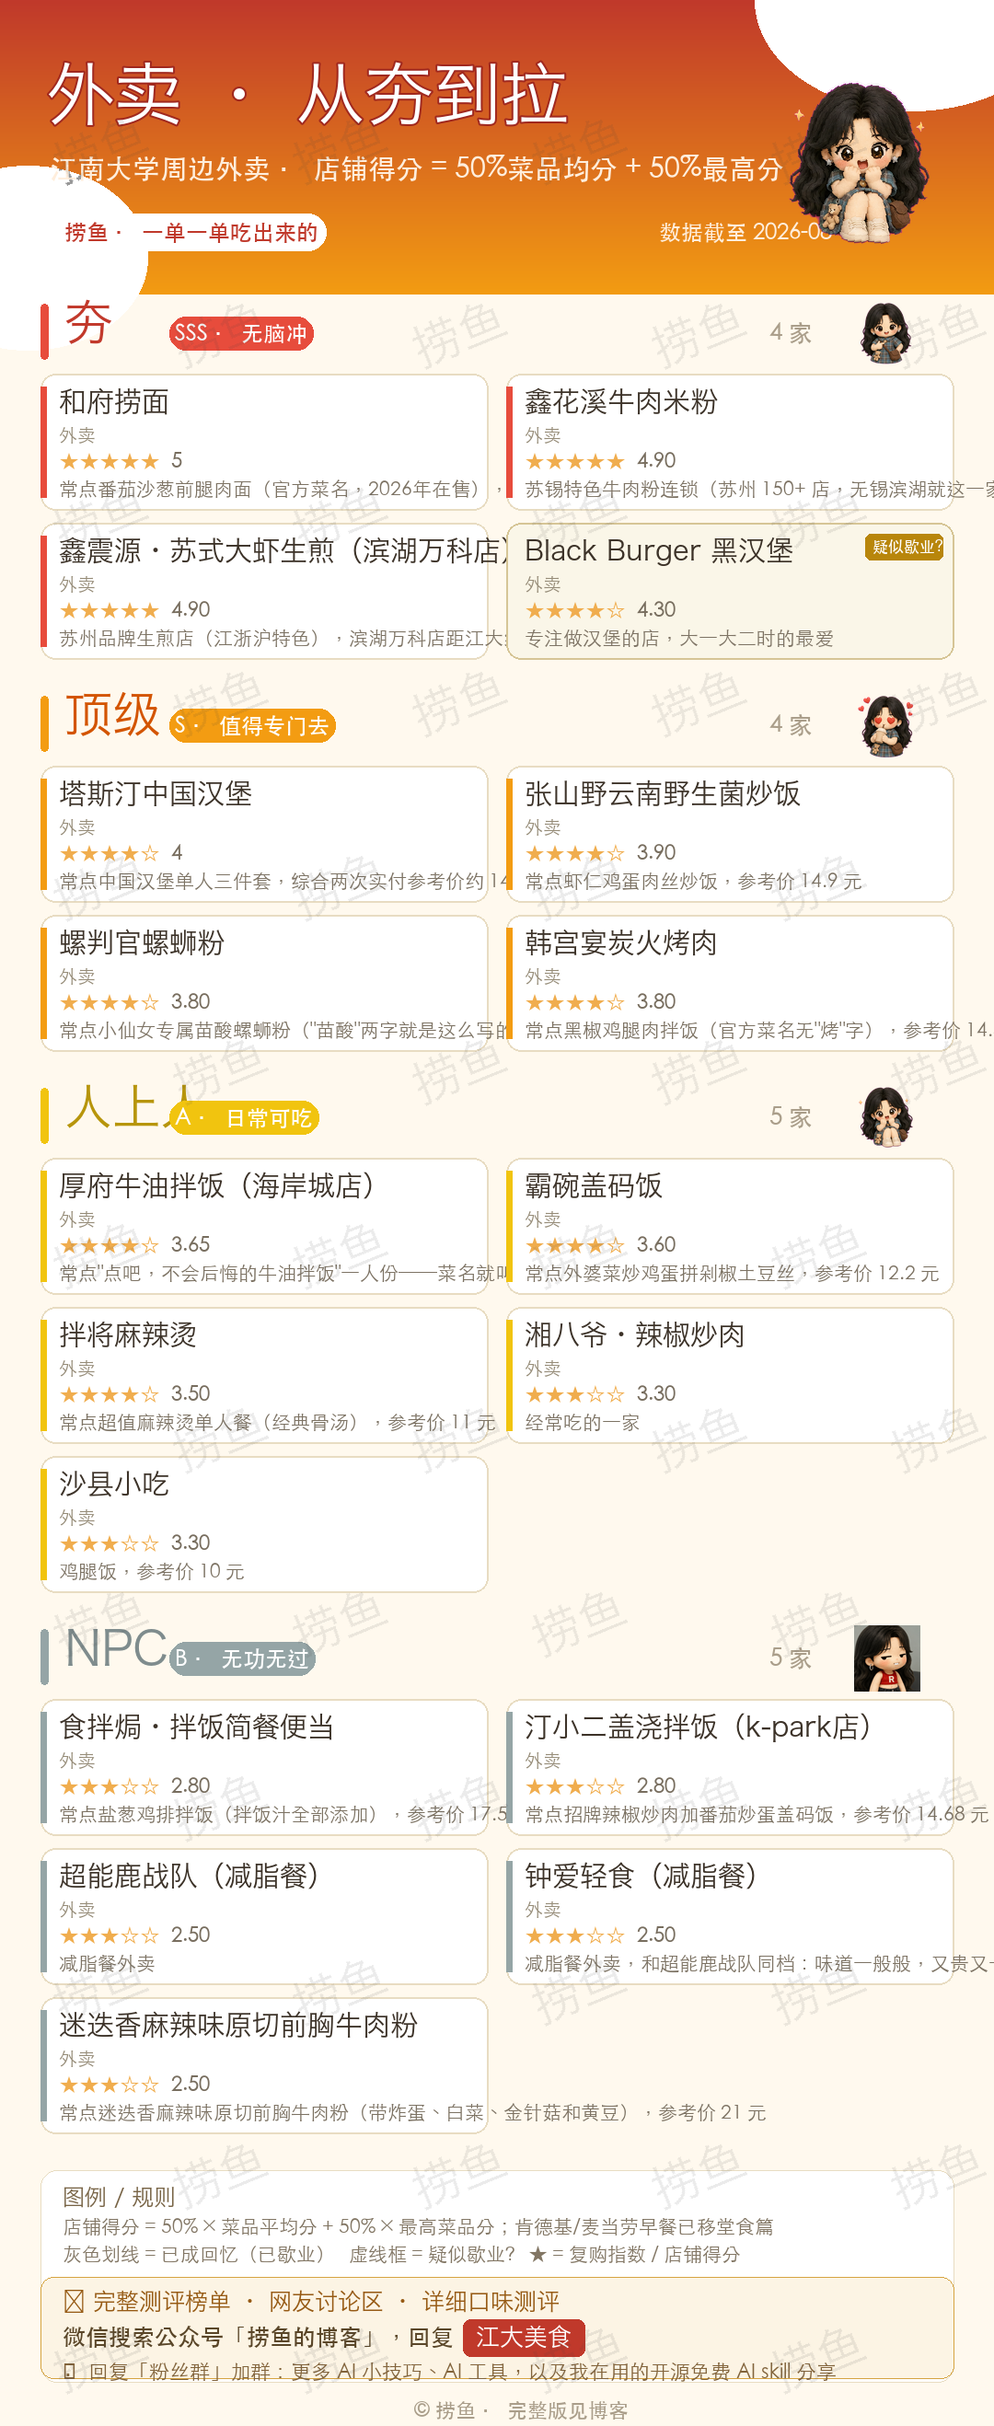
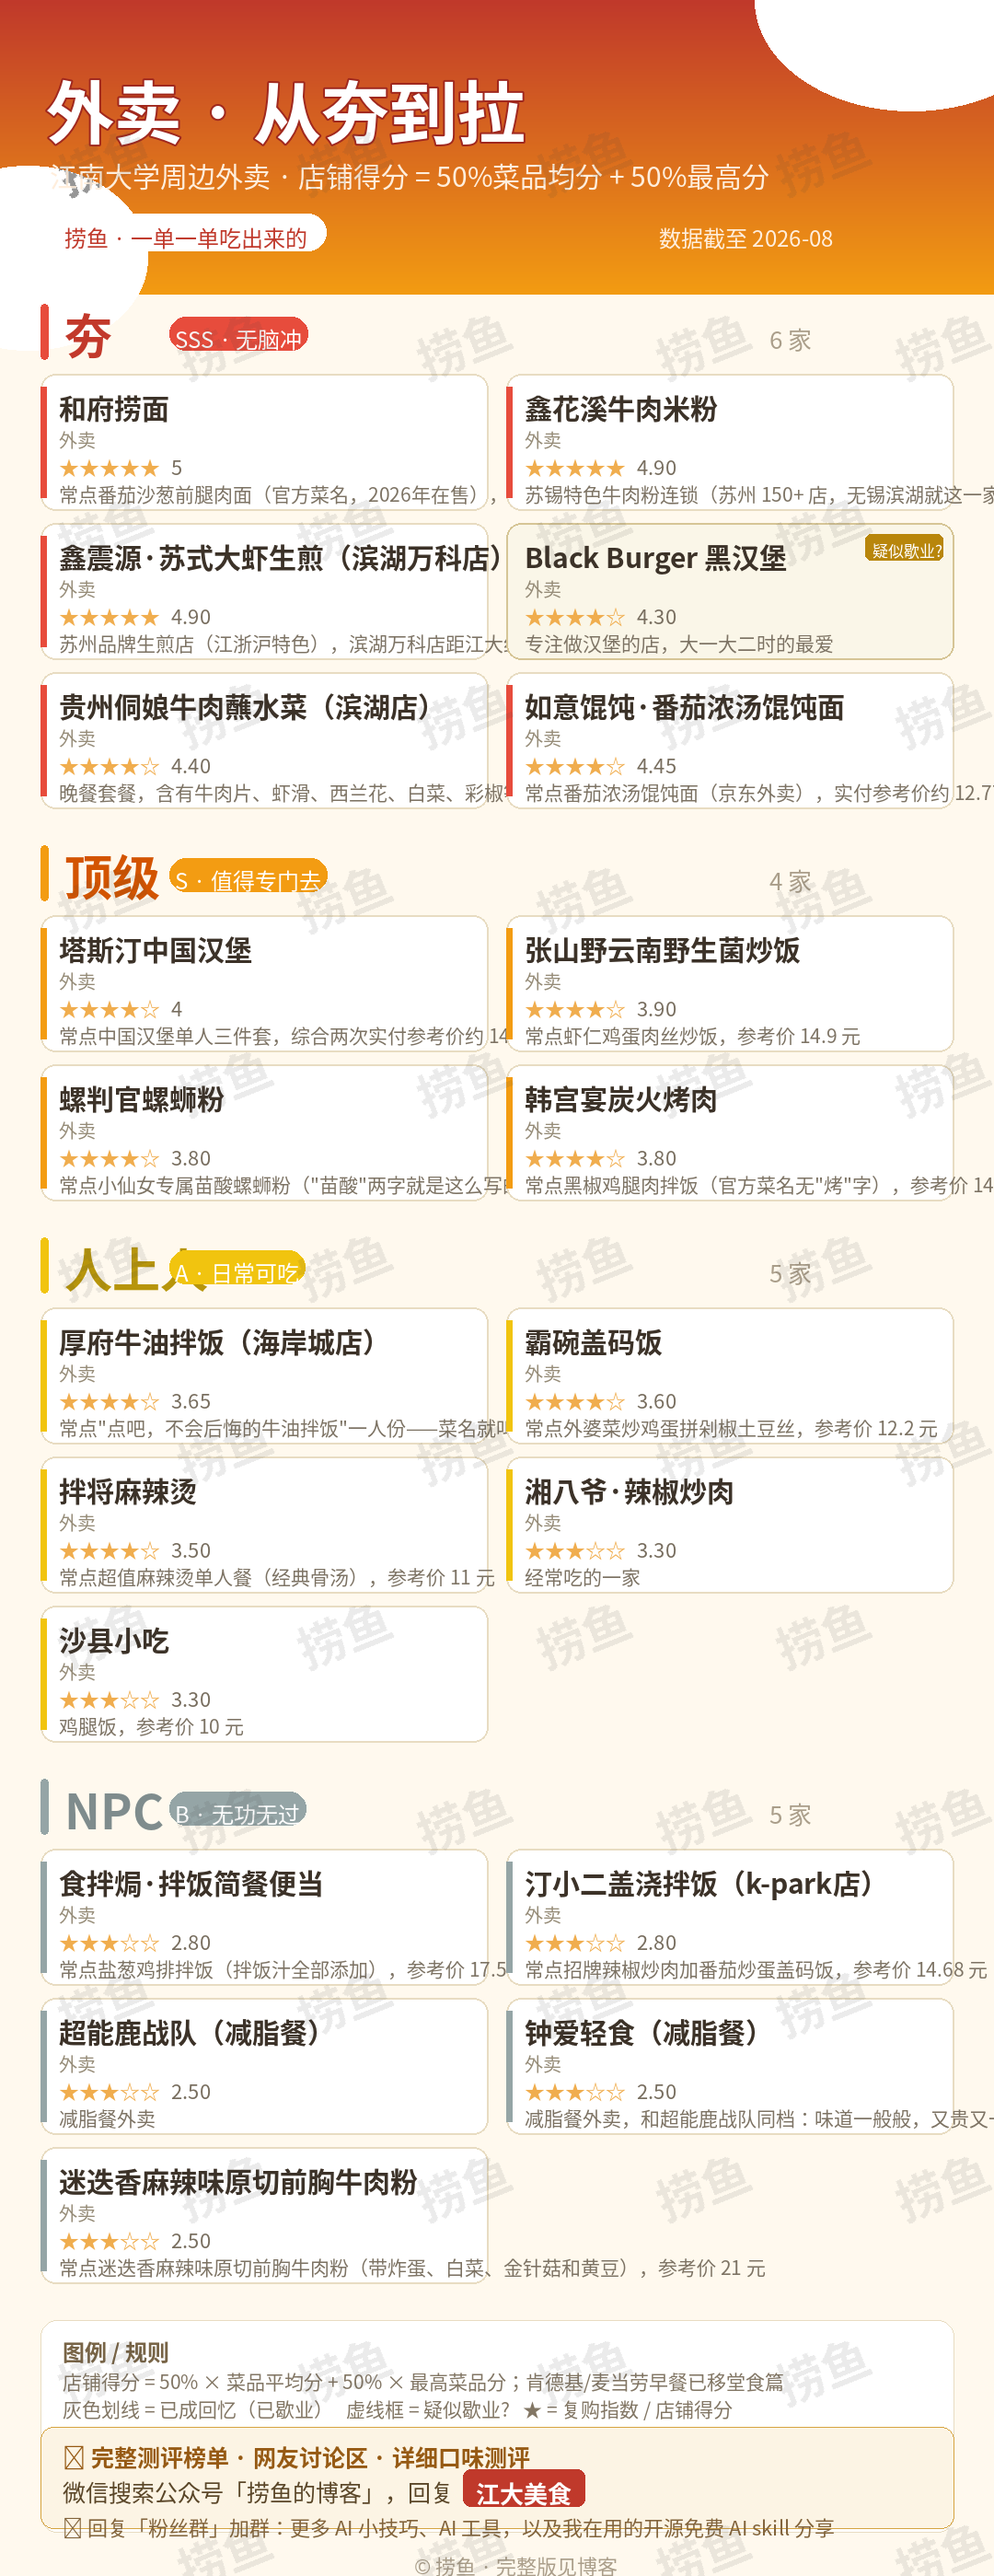
外卖排名: 新增如意馄饨·番茄浓汤馄饨面 4.45星 (夯档)

Changed region(s): [[0.0, 0.0, 1.0, 1.0], [0.8556, 0.28, 0.9778, 0.3111], [0.4278, 0.6844, 0.5194, 0.7155]]

diff --git a/assets/lib-custom/takeout-tier.js b/assets/lib-custom/takeout-tier.js
@@ -213,6 +213,17 @@
       note: '偶尔改善伙食的好选择，健康版铁盘饭，但米饭卫生和餐具质感在线下分。',
     },
     {
+      name: '【外卖】如意馄饨·番茄浓汤馄饨面',
+      tier: '夯',
+      tierLabel: '夯 · 店铺得分 4.45',
+      rating: 4.45,
+      description:
+        '常点番茄浓汤馄饨面（京东外卖），实付参考价约 12.77 元。味道很不错，鲜美馄饨，番茄汤很浓郁。高中时候就喜欢"科研"馄饨泡饭——把馄饨和米饭泡在一起吃，特别特别好吃。这碗面相当于一个"科研"馄饨泡饭，嘴巴里吃着感觉很有意思。作为大品牌，卫生肯定没问题，吃着放心。而且做了防坨处理，汤和料是分开的，细节上做得不错。不过外卖细节肯定还是没有和府捞面做得那么好，所以给 4.45 星。',
+      pros: ['味道鲜美，番茄汤浓郁', '大品牌卫生放心', '防坨处理细节加分', '"科研"馄饨泡饭的吃法很有意思'],
+      cons: ['外卖包装细节不如和府捞面'],
+      note: '科研吃法：馄饨面泡米饭，高中回忆杀。',
+    },
+    {
       name: '【外卖】迷迭香麻辣味原切前胸牛肉粉',
       tier: 'NPC',
       tierLabel: 'NPC · 店铺得分 2.50',

diff --git a/_posts/2026-08-15-江南大学外卖从夯到拉排名.md b/_posts/2026-08-15-江南大学外卖从夯到拉排名.md
@@ -2,7 +2,7 @@
 layout: post
 title: "江南大学外卖从夯到拉排名"
 date: 2026-08-15 19:00:00 +0800
-last_modified_at: 2026-08-25 20:04:00 +0800
+last_modified_at: 2026-08-26 20:11:00 +0800
 categories: [美食]
 tags: [从夯到拉排名,美食,JNU,外卖]
 description: 江南大学周边外卖店铺排名，店铺得分 = 50% 菜品均分 + 50% 最高菜品分
@@ -694,5 +694,5 @@ pin: false
 
 <!-- 隐藏文本用于字数统计 -->
 <div style="display: none;">
-江南大学外卖从夯到拉排名。店铺得分等于50%菜品平均分加50%最高菜品分。贵州侗娘牛肉蘸水菜滨湖店，夯，店铺得分4.40，套餐16.28元，健康版加强铁盘饭，偶尔吃很好吃，肉和蔬菜营养全面。2026-08-25更新：米饭疑似拉丝卫生存疑，黑塑料餐具不考究，和那些有设计感的品牌没法比。和府捞面，夯，店铺得分5.00，常点番茄沙葱前腿肉面，参考价约23.3元，外卖里性价比最高的汤面，包装特别好，满分。鑫花溪牛肉米粉，夯，店铺得分4.90，经典牛肉粉简直美美死了，香辣牛杂粉、红煨牛腩、酸汤一般；离学校5.3公里运费4.9元外卖贵两三块，附近有店建议堂食或闲鱼；第一次别加麻椒。熙盛源滨湖万达店，夯，店铺得分4.90，无锡老字号小笼馄饨，推荐小龙虾生煎，22元虾肉小馄饨加生煎双拼美味但吃不饱，25元起步，营养多有虾肉。Black Burger黑汉堡，夯，店铺得分4.30，黑汉堡25到30元加冰可乐，很好吃但沙拉酱略多，海岸城店疑似已关门。塔斯汀，顶级，店铺得分4.00，中国汉堡单人三件套约14.5元，汉堡皮好吃可乐好喝，评分锚点。张山野云南野生菌炒饭，顶级，店铺得分3.90，虾仁鸡蛋肉丝炒饭14.9元，稍油有虾仁，疑似科技狠活多不宜常吃。螺判官螺蛳粉，顶级，店铺得分3.83，小仙女专属苗酸螺蛳粉正常价18元，不加炸蛋3分加炸蛋4.1分，综合3.83。韩宫宴炭火烤肉，顶级，店铺得分3.80，黑椒鸡腿肉拌饭14.4元，营养全不太油，但哪都有量不多。厚府牛油拌饭海岸城店，人上人，店铺得分3.65，点吧不会后悔的牛油拌饭一人份14元，味道可以但蛋白质少油多，给铁勺包装有点想法。霸碗盖码饭，人上人，店铺得分3.60，外婆菜炒鸡蛋拼剁椒土豆丝12.2元，机器人炒的，太油但星星布丁觉得好吃。拌将麻辣烫，人上人，店铺得分3.50，超值麻辣烫单人餐经典骨汤11元，外卖比堂食划算，干净，味道还行。湘八爷辣椒炒肉，人上人，店铺得分3.30，西红柿炒鸡蛋盖码饭8.5元，油量控制好，不惊艳。沙县小吃，人上人，店铺得分3.30，鸡腿饭10元，健康油少量可，味道一般，评分锚点。食拌焗拌饭简餐便当，NPC，店铺得分2.80，盐葱鸡排拌饭17.5元，味道和湘八爷差不多但性价比太差量少。汀小二盖浇拌饭k-park店，NPC，店铺得分2.80，招牌辣椒炒肉加番茄炒蛋盖码饭14.68元，太油，达不到日常吃标准。超能鹿战队，NPC，店铺得分2.50估，减脂餐，又贵又一般，幽灵店无堂食卫生存疑。钟爱轻食，NPC，店铺得分2.50估，减脂餐，同上。迷迭香麻辣味原切前胸牛肉粉，NPC，店铺得分2.50，常点迷迭香麻辣味原切前胸牛肉粉（带炸蛋、白菜、金针菇和黄豆），参考价21元，太油，油多到随便一捞都是油，肥牛就一两片，性价比极差，只值12元，不过不难吃，NPC档。肯德基和麦当劳的早餐组合不属于外卖品类，已移至堂食篇早餐档。本排名持续更新。
+江南大学外卖从夯到拉排名。店铺得分等于50%菜品平均分加50%最高菜品分。贵州侗娘牛肉蘸水菜滨湖店，夯，店铺得分4.40，套餐16.28元，健康版加强铁盘饭，偶尔吃很好吃，肉和蔬菜营养全面。2026-08-25更新：米饭疑似拉丝卫生存疑，黑塑料餐具不考究，和那些有设计感的品牌没法比。和府捞面，夯，店铺得分5.00，常点番茄沙葱前腿肉面，参考价约23.3元，外卖里性价比最高的汤面，包装特别好，满分。鑫花溪牛肉米粉，夯，店铺得分4.90，经典牛肉粉简直美美死了，香辣牛杂粉、红煨牛腩、酸汤一般；离学校5.3公里运费4.9元外卖贵两三块，附近有店建议堂食或闲鱼；第一次别加麻椒。熙盛源滨湖万达店，夯，店铺得分4.90，无锡老字号小笼馄饨，推荐小龙虾生煎，22元虾肉小馄饨加生煎双拼美味但吃不饱，25元起步，营养多有虾肉。Black Burger黑汉堡，夯，店铺得分4.30，黑汉堡25到30元加冰可乐，很好吃但沙拉酱略多，海岸城店疑似已关门。塔斯汀，顶级，店铺得分4.00，中国汉堡单人三件套约14.5元，汉堡皮好吃可乐好喝，评分锚点。张山野云南野生菌炒饭，顶级，店铺得分3.90，虾仁鸡蛋肉丝炒饭14.9元，稍油有虾仁，疑似科技狠活多不宜常吃。螺判官螺蛳粉，顶级，店铺得分3.83，小仙女专属苗酸螺蛳粉正常价18元，不加炸蛋3分加炸蛋4.1分，综合3.83。韩宫宴炭火烤肉，顶级，店铺得分3.80，黑椒鸡腿肉拌饭14.4元，营养全不太油，但哪都有量不多。厚府牛油拌饭海岸城店，人上人，店铺得分3.65，点吧不会后悔的牛油拌饭一人份14元，味道可以但蛋白质少油多，给铁勺包装有点想法。霸碗盖码饭，人上人，店铺得分3.60，外婆菜炒鸡蛋拼剁椒土豆丝12.2元，机器人炒的，太油但星星布丁觉得好吃。拌将麻辣烫，人上人，店铺得分3.50，超值麻辣烫单人餐经典骨汤11元，外卖比堂食划算，干净，味道还行。湘八爷辣椒炒肉，人上人，店铺得分3.30，西红柿炒鸡蛋盖码饭8.5元，油量控制好，不惊艳。沙县小吃，人上人，店铺得分3.30，鸡腿饭10元，健康油少量可，味道一般，评分锚点。食拌焗拌饭简餐便当，NPC，店铺得分2.80，盐葱鸡排拌饭17.5元，味道和湘八爷差不多但性价比太差量少。汀小二盖浇拌饭k-park店，NPC，店铺得分2.80，招牌辣椒炒肉加番茄炒蛋盖码饭14.68元，太油，达不到日常吃标准。超能鹿战队，NPC，店铺得分2.50估，减脂餐，又贵又一般，幽灵店无堂食卫生存疑。钟爱轻食，NPC，店铺得分2.50估，减脂餐，同上。迷迭香麻辣味原切前胸牛肉粉，NPC，店铺得分2.50，常点迷迭香麻辣味原切前胸牛肉粉（带炸蛋、白菜、金针菇和黄豆），参考价21元，太油，油多到随便一捞都是油，肥牛就一两片，性价比极差，只值12元，不过不难吃，NPC档。如意馄饨番茄浓汤馄饨面，夯，店铺得分4.45，京东外卖实付约12.77元，味道鲜美番茄汤浓郁，大品牌卫生放心，防坨处理细节加分，科研吃法馄饨面泡米饭高中回忆杀，但外卖包装细节不如和府捞面。肯德基和麦当劳的早餐组合不属于外卖品类，已移至堂食篇早餐档。本排名持续更新。
 </div>
